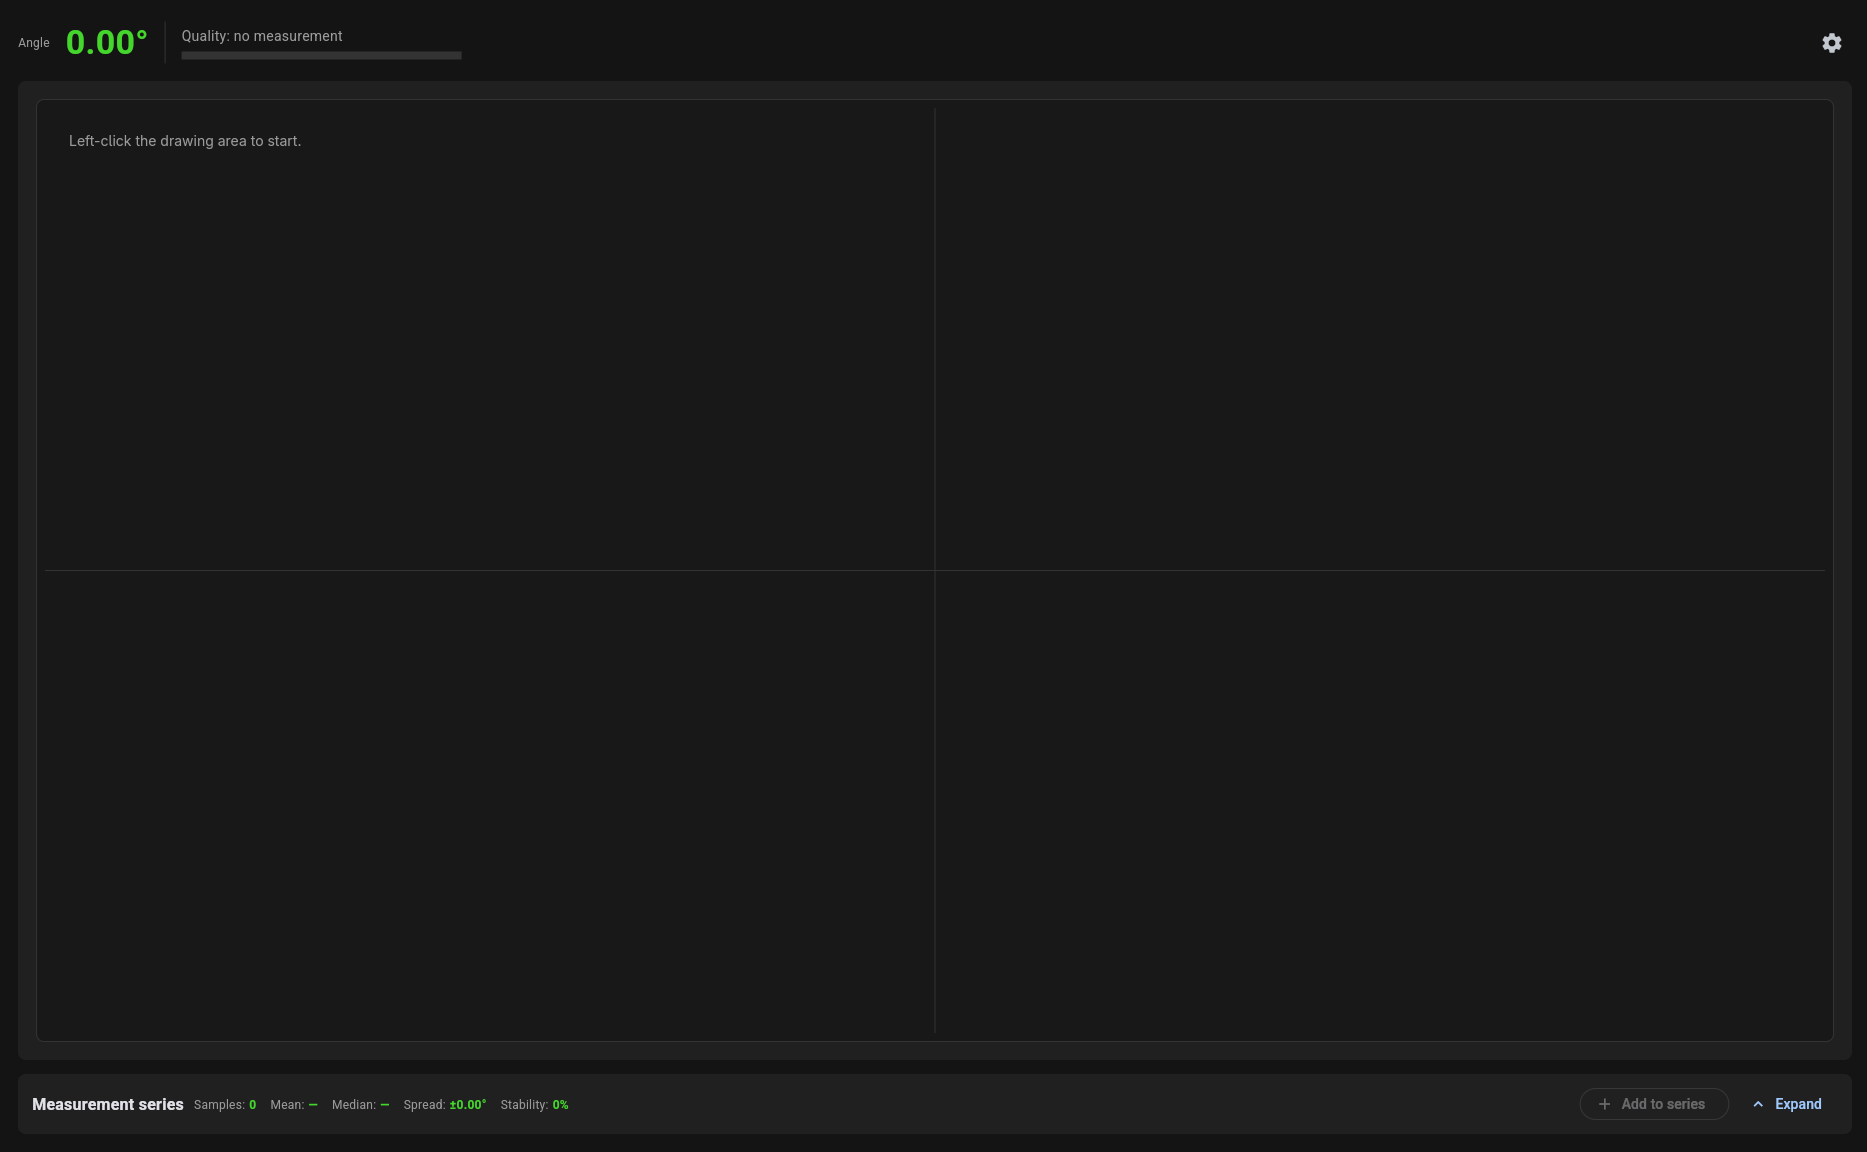
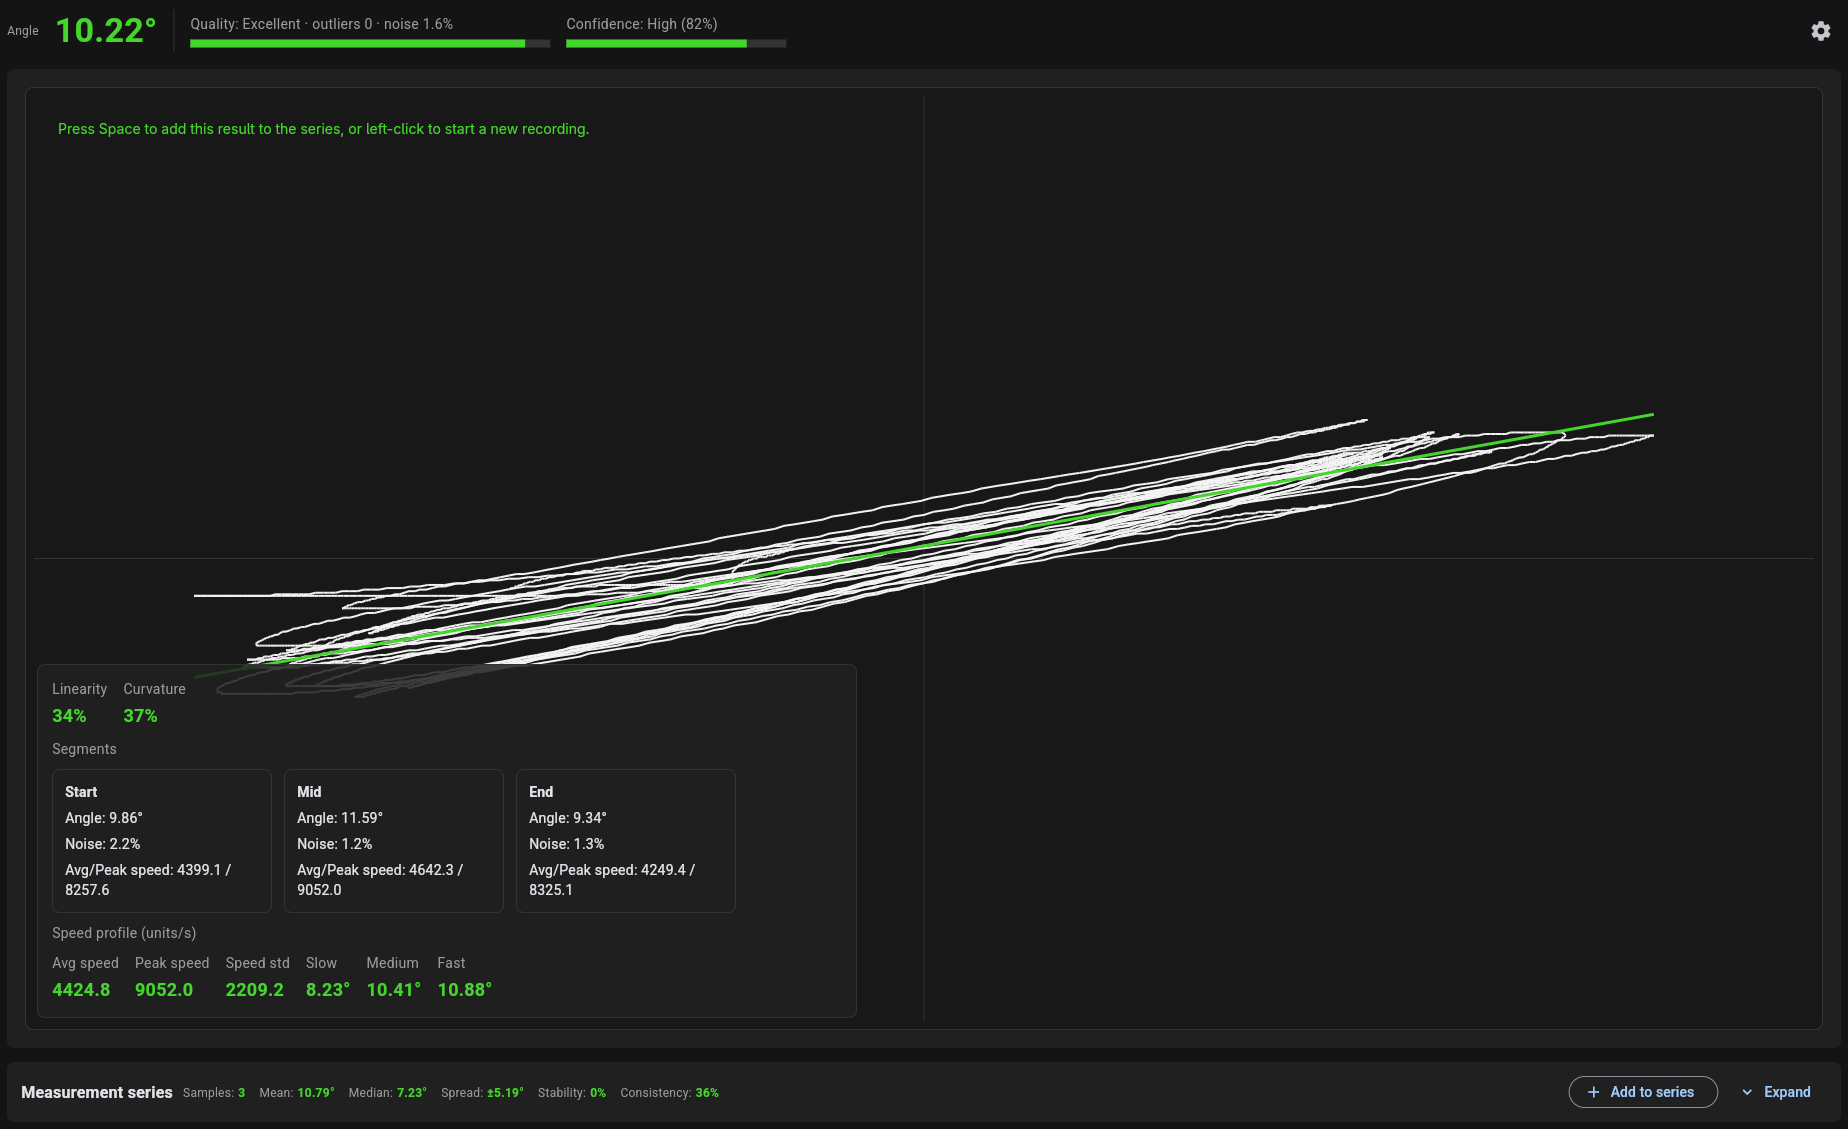
Update README for v1.1.0 release

diff --git a/README.md b/README.md
@@ -4,13 +4,16 @@
 
 # Mouse Rotation Tuner
 
-Check whether your natural mouse swipes are actually horizontal. Inspired by [Razer Mouse Rotation Calibration](https://www.razer.com/eu-en/technology/mouse-rotation-tool), this version goes further with cleaner measurements and better repeatability.
+Check whether your natural mouse swipes are actually horizontal. Inspired by [Razer Mouse Rotation Calibration](https://www.razer.com/eu-en/technology/mouse-rotation-tool), this version goes further with cleaner measurements and better repeatability. The latest build is available in [Releases](https://github.com/kostya1F634/mouse-rotation-tuner/releases/tag/v1.1.0).
 
 ## Features
 
 - Real-time filtering that removes near-vertical movement and large arcs from the angle calculation.
 - A quality score based on path noise and rejected motion.
-- Series statistics with mean, median, spread, and stability.
+- Confidence scoring based on swipe length, noise, rejected motion, and segment agreement.
+- Segment diagnostics for the start, middle, and end of each swipe.
+- Speed profile analysis with low, medium, and high-speed angle snapshots.
+- Series statistics with mean, median, spread, stability, trimmed mean, and best-three average.
 - Fast repeat-and-review workflow for collecting only usable measurements.
 
 ![Application screenshot](assets/app.png)